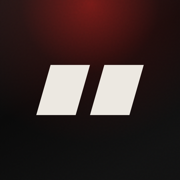
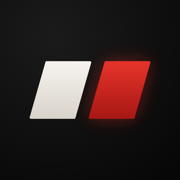
Icono: opción B «Ritmo» (barra hueso + barra roja con brillo)
Elegida por Adrián entre cuatro propuestas. apple-touch-icon ?v=3.

diff --git a/index.html b/index.html
@@ -8,7 +8,7 @@
 <meta name="apple-mobile-web-app-status-bar-style" content="black-translucent" />
 <meta name="apple-mobile-web-app-title" content="ONIX" />
 <link rel="manifest" href="./manifest.webmanifest" />
-<link rel="apple-touch-icon" sizes="180x180" href="./icon-180.png?v=2" />
+<link rel="apple-touch-icon" sizes="180x180" href="./icon-180.png?v=3" />
 <title>ONIX</title>
 <link rel="preconnect" href="https://fonts.googleapis.com" />
 <link rel="preconnect" href="https://fonts.gstatic.com" crossorigin />
